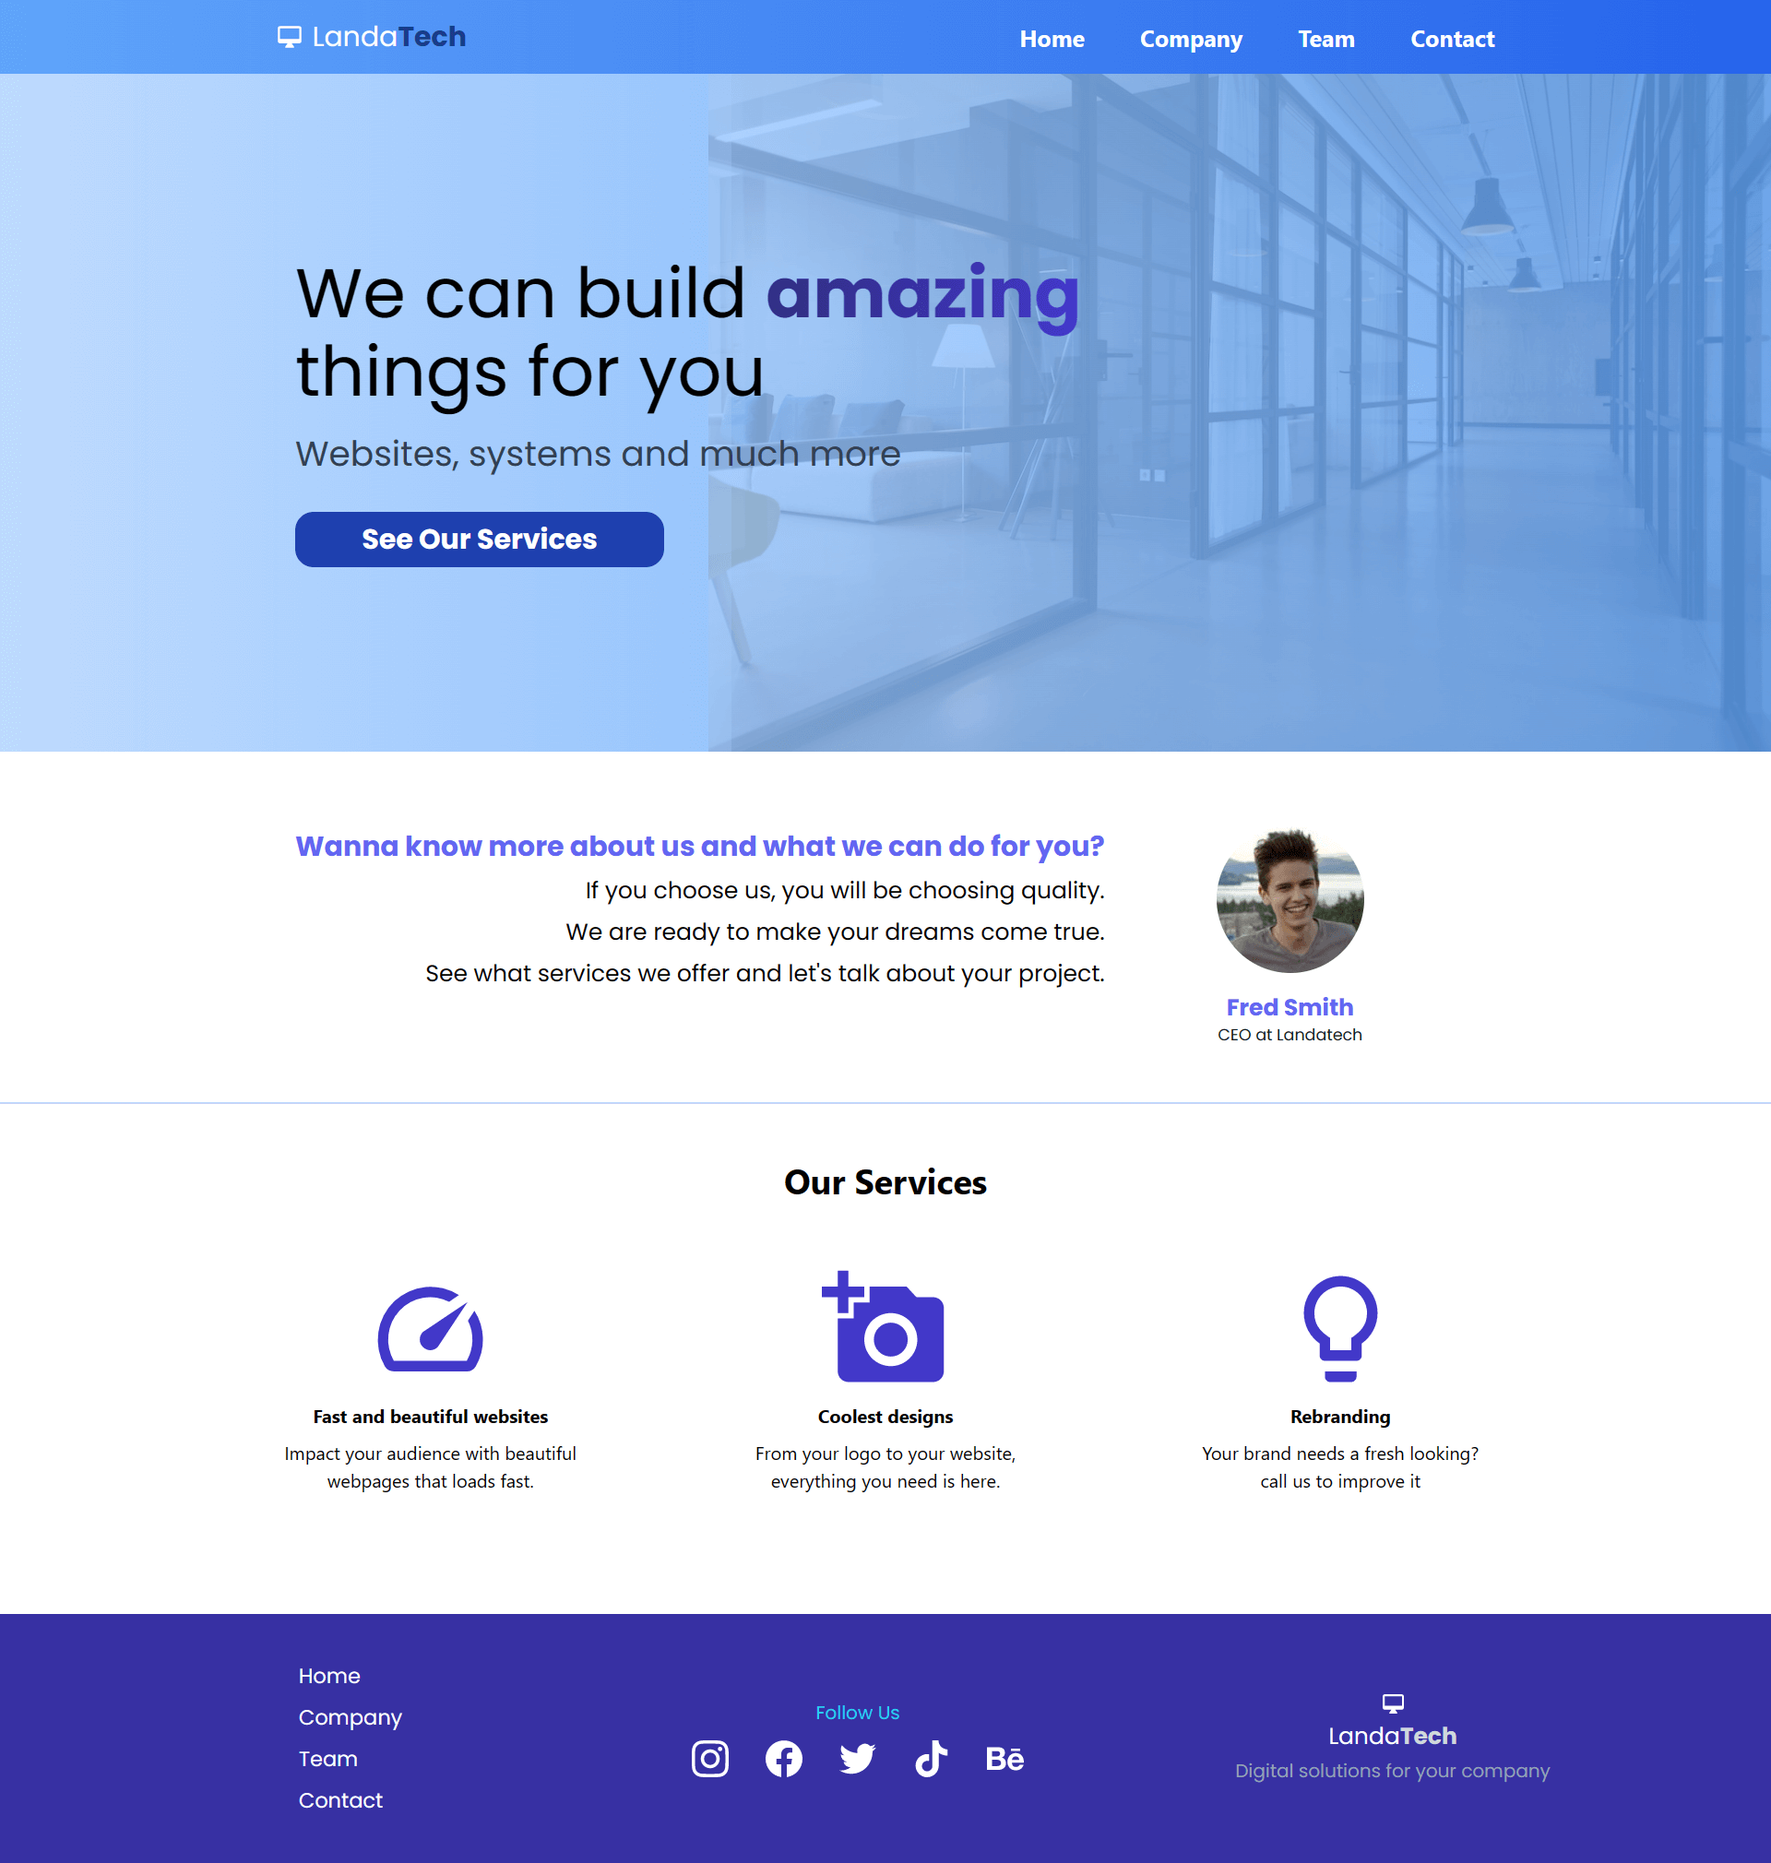
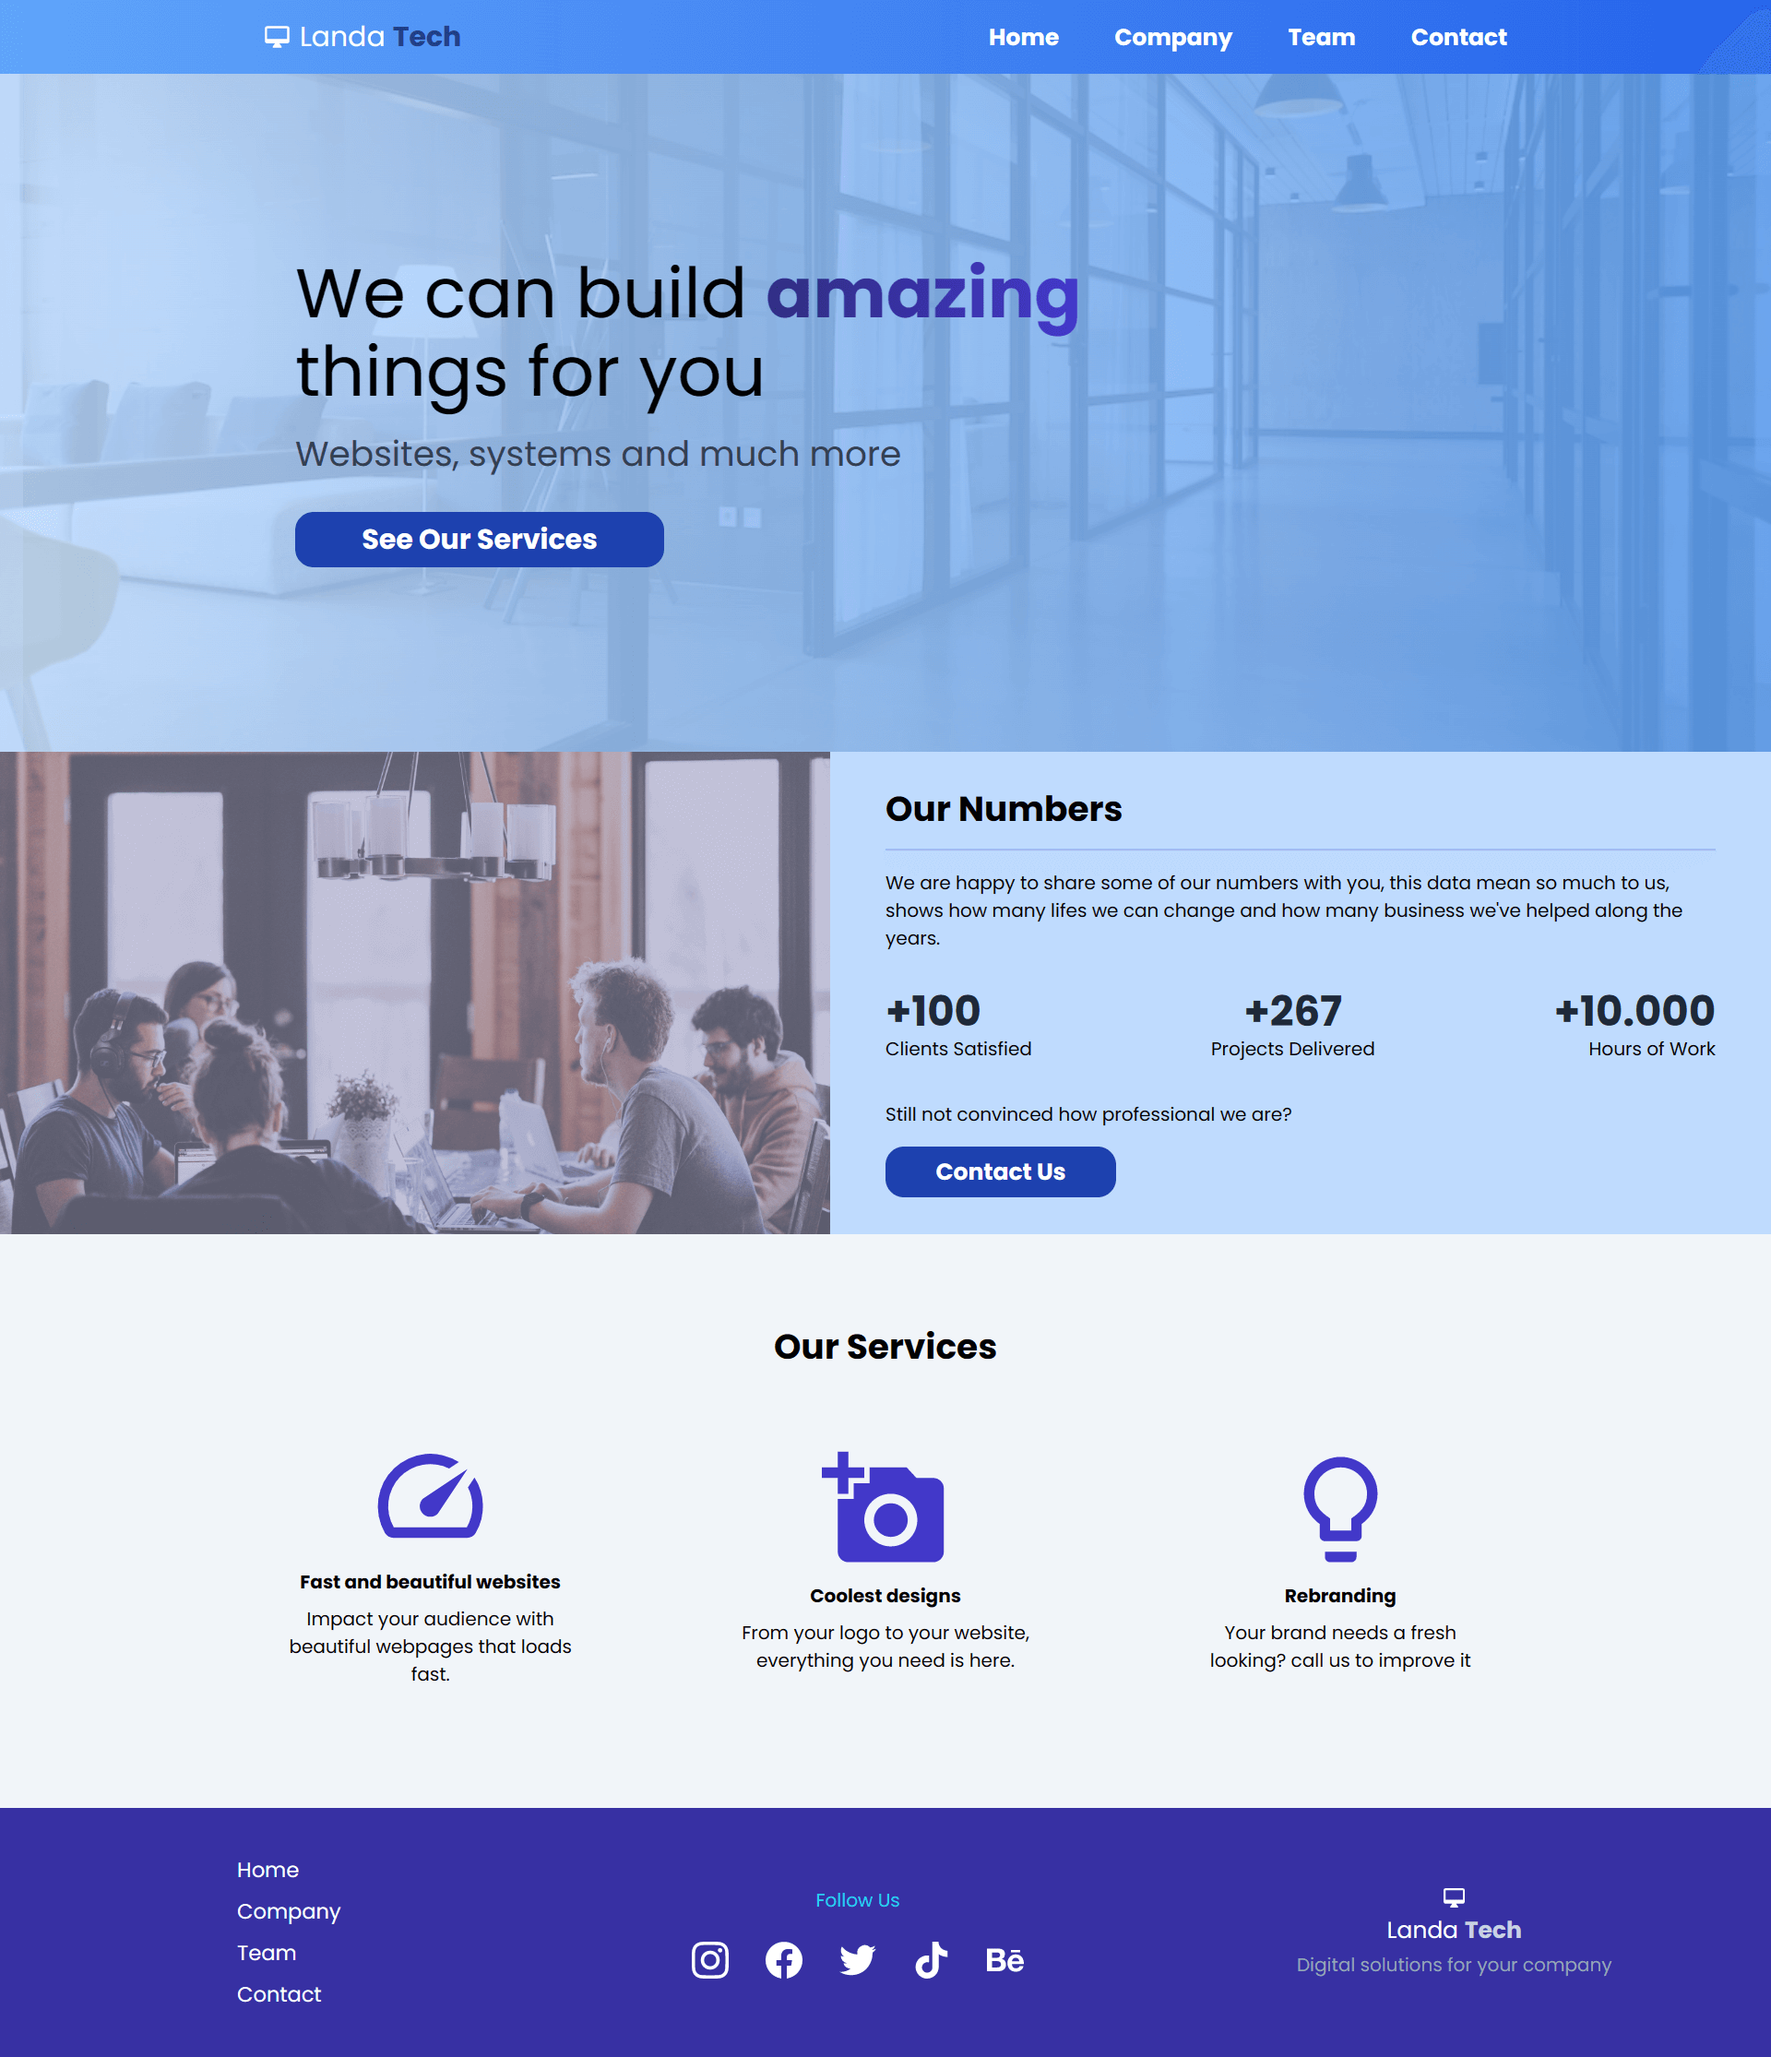
fix: home contact button, updated print of project, align text at our services section

diff --git a/src/components/home/HomeService.jsx b/src/components/home/HomeService.jsx
@@ -9,12 +9,12 @@ export const HomeService = () => {
             
             <div className="flex flex-1 flex-col gap-2 items-center px-12 py-6 md:px-12">
                 <MdSpeed size={110} color="#4338ca"/>
-                <h3 className="font-bold">Fast and beautiful websites</h3>
-                <p>Impact your audience with beautiful webpages that loads fast.</p>
+                <h3 className="font-bold">Beautiful websites</h3>
+                <p>Impact your audience with beautiful and fast webpages.</p>
             </div>
 
             <div className="flex flex-1 flex-col gap-2 items-center px-12 py-6 md:px-12">
-                <MdAddAPhoto size={110} color="#4338ca"/>
+                <MdAddAPhoto size={100} color="#4338ca"/>
                 <h3 className="font-bold">Coolest designs</h3>
                 <p>From your logo to your website, everything you need is here.</p>
             </div>

diff --git a/src/components/home/HomeStats.jsx b/src/components/home/HomeStats.jsx
@@ -1,4 +1,4 @@
-const imgUrl = 'https://randomuser.me/api/portraits/men/42.jpg'
+import {Link} from 'react-router-dom'
 
 export const HomeStats = () => {
   return (
@@ -22,7 +22,9 @@ export const HomeStats = () => {
 
         <p>Still not convinced how professional we are?</p>
 
-        <a href="#"className="mt-4 w-full text-xl font-bold bg-blue-800 text-white py-2 px-2 rounded-2xl hover:bg-blue-600 md:w-[200px] text-center">Contact Us</a>
+        <Link to="/contact">
+          <button className="mt-4 w-full text-xl font-bold bg-blue-800 text-white py-2 px-2 rounded-2xl hover:bg-blue-600 md:w-[200px] text-center"> Contact Us </button>
+        </Link>
         
       </div>
 
